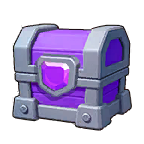
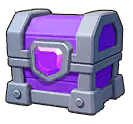
upd - imagenes glyph

diff --git a/js/activities-daily.js b/js/activities-daily.js
@@ -79,7 +79,7 @@
     { "code": "DYFALCON", "group": "FOCUS", "icon": "falcon-mission-lock", "point": "", "codebs": "" },
     { "code": "STMN", "group": "FOCUS", "icon": "stamina-bottle", "point": 375, "codebs": "RAVEN" },
 
-    { "code": "EPIUR", "group": "RAVEN", "icon": "epigraf-chest", "point": 2812.5, "codebs": "" },
+    { "code": "EPIUR", "group": "RAVEN", "icon": "epigraf-chest-ssr", "point": 2812.5, "codebs": "" },
     { "code": "RAVESS", "group": "RAVEN", "icon": "raven-essence", "point": 6250, "codebs": "" },
     { "code": "RAVFRT", "group": "RAVEN", "icon": "raven-fruit", "point": 7.5, "codebs": "RAVEN" },
     { "code": "RAVCH1", "group": "RAVEN", "icon": "raven-chest", "point": 2750, "codebs": "" },
@@ -90,7 +90,7 @@
     { "code": "CON1SP", "group": "BUILD", "icon": "speedup-build", "point": 150, "codebs": "BUILD" },
     { "code": "CONMGH", "group": "BUILD", "icon": "might-building", "point": 29, "codebs": "BUILD" },
 
-    { "code": "CRVNUR", "group": "OPER", "icon": "caravan", "point": 300000, "codebs": "" },
+    { "code": "CRVNUR", "group": "OPER", "icon": "caravan-ur", "point": 300000, "codebs": "" },
     { "code": "OPENUR", "group": "OPER", "icon": "black-ops-swag", "point": 225000, "codebs": "" },
 
     { "code": "TCKSUR", "group": "TAVERN", "icon": "ticket-survivor", "point": 4500, "codebs": "" },

diff --git a/css/activities-daily.css b/css/activities-daily.css
@@ -436,6 +436,7 @@ tr.bs-current td.bs-event::after {
   font-weight: 700;
   font-variant-numeric: tabular-nums;
   white-space: nowrap;
+  font-family: 'Courier New', Courier, monospace;
 }
 /* Estrella de habilidad de las actividades de Battle Survival. */
 .ad-bs-task .ad-bs-star {
